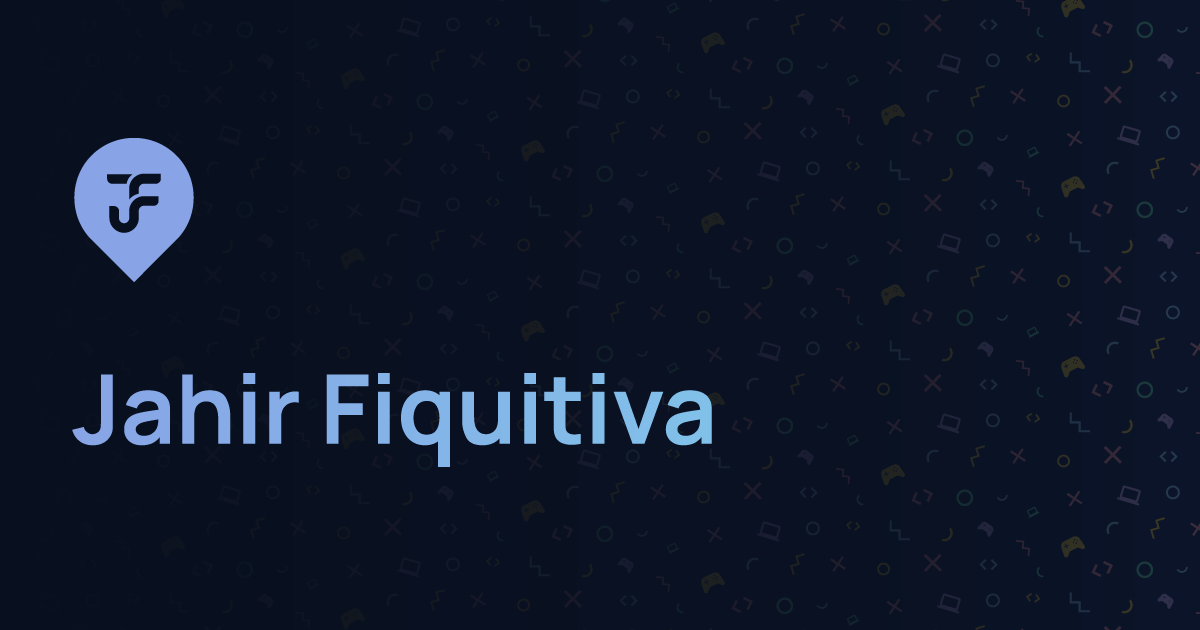
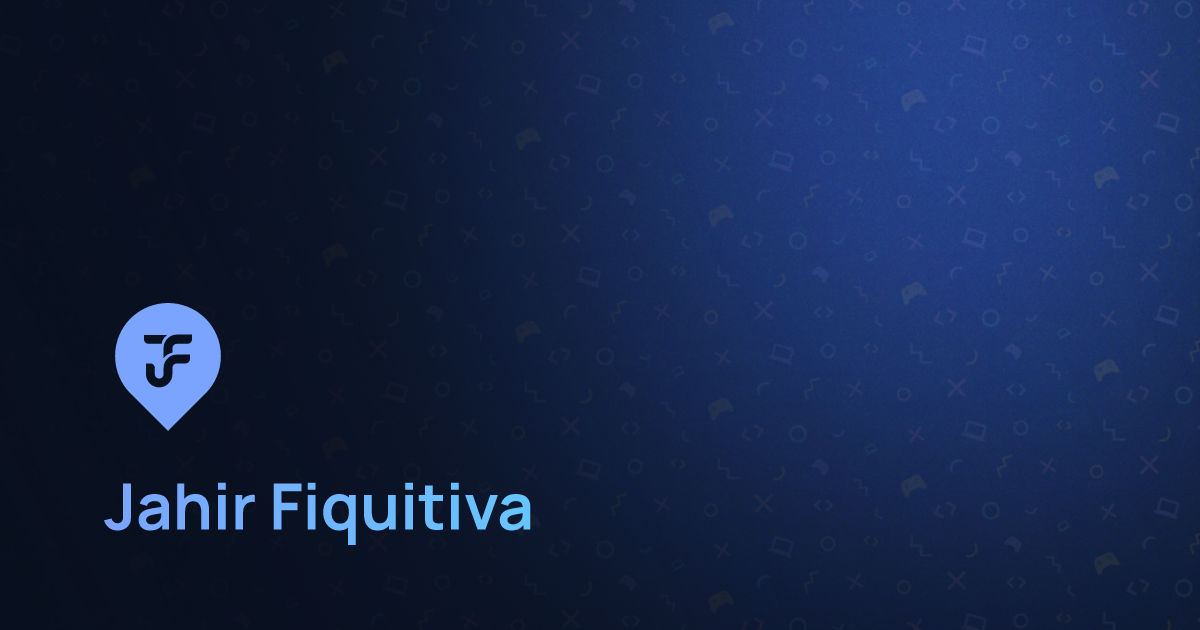
feat: update og image and styles

diff --git a/src/components/og/og.tsx b/src/components/og/og.tsx
@@ -19,6 +19,14 @@ interface OgImageProps {
   hero?: string | null;
 }
 
+const getGradientOverlay = (title?: string | null) => {
+  return [
+    'rgba(8, 15, 30, 1) 0%',
+    Boolean(title) ? 'rgba(8, 15, 30, 0.5) 60%' : 'rgba(8, 15, 30, 0.5) 50%',
+    Boolean(title) ? 'rgba(8, 15, 30, 0.05) 100%' : 'rgba(8, 15, 30, 0) 100%',
+  ];
+};
+
 export const OgImage = (props: OgImageProps) => {
   const { path, title, hero } = props;
   return (
@@ -28,10 +36,10 @@ export const OgImage = (props: OgImageProps) => {
         flexDirection: 'column',
         height: '100%',
         width: '100%',
-        padding: '48px 72px',
+        padding: '56px 104px',
         alignItems: 'flex-start',
         justifyContent: 'flex-end',
-        gap: 12,
+        gap: Boolean(path) ? 0 : 12,
         fontFamily: 'Manrope',
         color: 'white',
         textShadow: '0px 2px 4px rgba(8 15 30 / 0.5)',
@@ -58,19 +66,10 @@ export const OgImage = (props: OgImageProps) => {
       />
       <div
         style={{
-          backgroundColor: 'rgba(8, 15, 30, 0.36)',
-          position: 'absolute',
-          top: 0,
-          right: 0,
-          left: 0,
-          bottom: 0,
-        }}
-      />
-      <div
-        style={{
+          mixBlendMode: 'multiply',
           backgroundImage:
             // eslint-disable-next-line max-len
-            'linear-gradient(65deg, rgba(8, 15, 30, 1) 0%, rgba(8, 15, 30, 0.5) 60%, rgba(8, 15, 30, 0) 100%)',
+            `linear-gradient(65deg, ${getGradientOverlay(title).join(', ')})`,
           position: 'absolute',
           top: 0,
           right: 0,
@@ -78,7 +77,6 @@ export const OgImage = (props: OgImageProps) => {
           bottom: 0,
         }}
       />
-
       <LogoOrEmoji path={path} />
       <PageTitle path={path} title={title} />
       <Name path={path} />

diff --git a/src/components/og/logo-title.tsx b/src/components/og/logo-title.tsx
@@ -23,7 +23,7 @@ const pathTitleMap = {
   error: 'Error',
 };
 
-const titleFontSize = 72;
+const titleFontSize = 64;
 export const LogoOrEmoji = (props: { path?: PathName }) => {
   const emoji = props.path ? pathEmojiMap[props.path] : null;
   if (!emoji) {
@@ -47,7 +47,7 @@ export const PageTitle = (props: {
   title?: string | null;
 }) => {
   const { path, title } = props;
-  const pathTitle = path ? pathTitleMap[path] : null;
+  const pathTitle = path ? pathTitleMap[path] || null : null;
   return (
     <p
       style={{

diff --git a/src/components/og/name.tsx b/src/components/og/name.tsx
@@ -2,9 +2,10 @@ import { Logo } from '../icons/logo';
 
 import type { PathName } from './logo-title';
 
-const fontSize = 40;
-export const Name = (props: { path?: PathName }) => {
-  if (!props.path) return null;
+const defaultFontSize = 36;
+export const Name = (props: { path?: PathName; fontSize?: number }) => {
+  const { path, fontSize = defaultFontSize } = props;
+  if (!path) return null;
   return (
     <div
       style={{

diff --git a/src/components/views/mdx/ui/reactions/reactions.styles.ts b/src/components/views/mdx/ui/reactions/reactions.styles.ts
@@ -9,7 +9,7 @@ export const ReactionsGroup = tw.div`
 
 export const StyledReactionButton = tw(Button)<{ $reacted?: boolean }>`
   group/reaction
-  py-10 px-12
+  py-10 px-14
   rounded-full
   text-3xs
   text-secondary-txt
